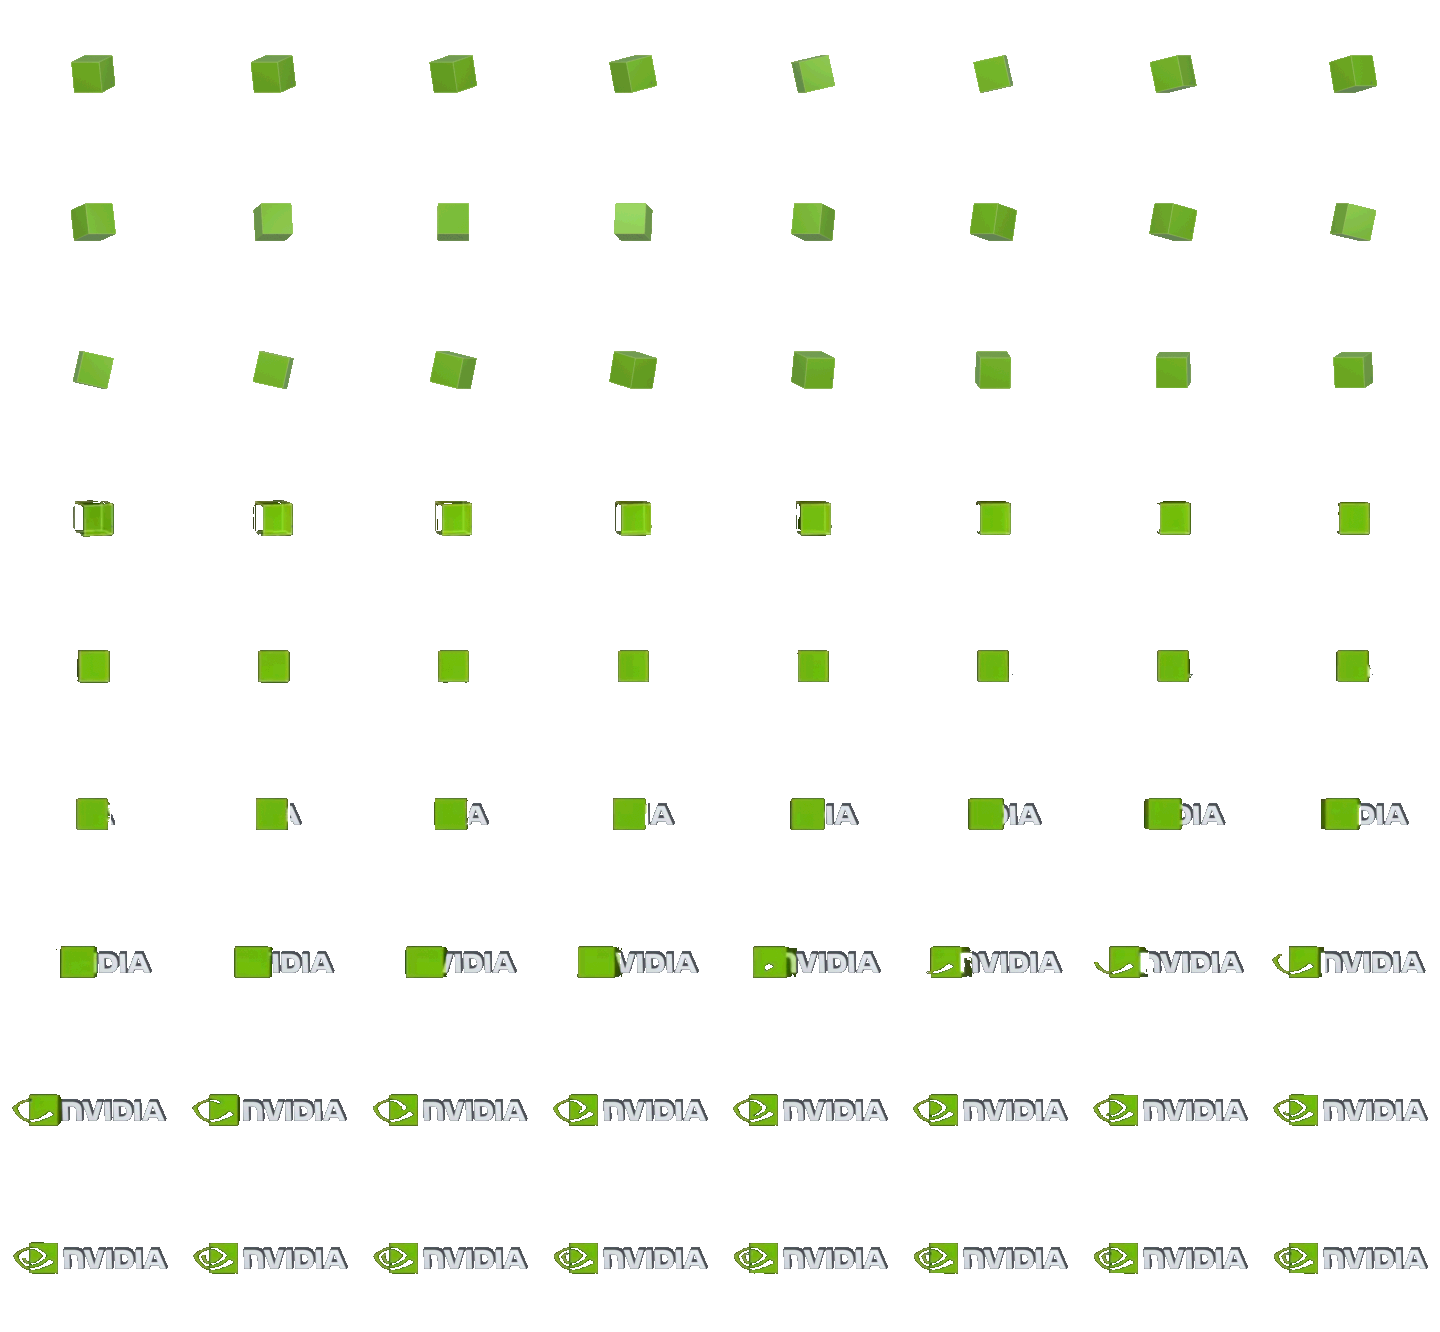
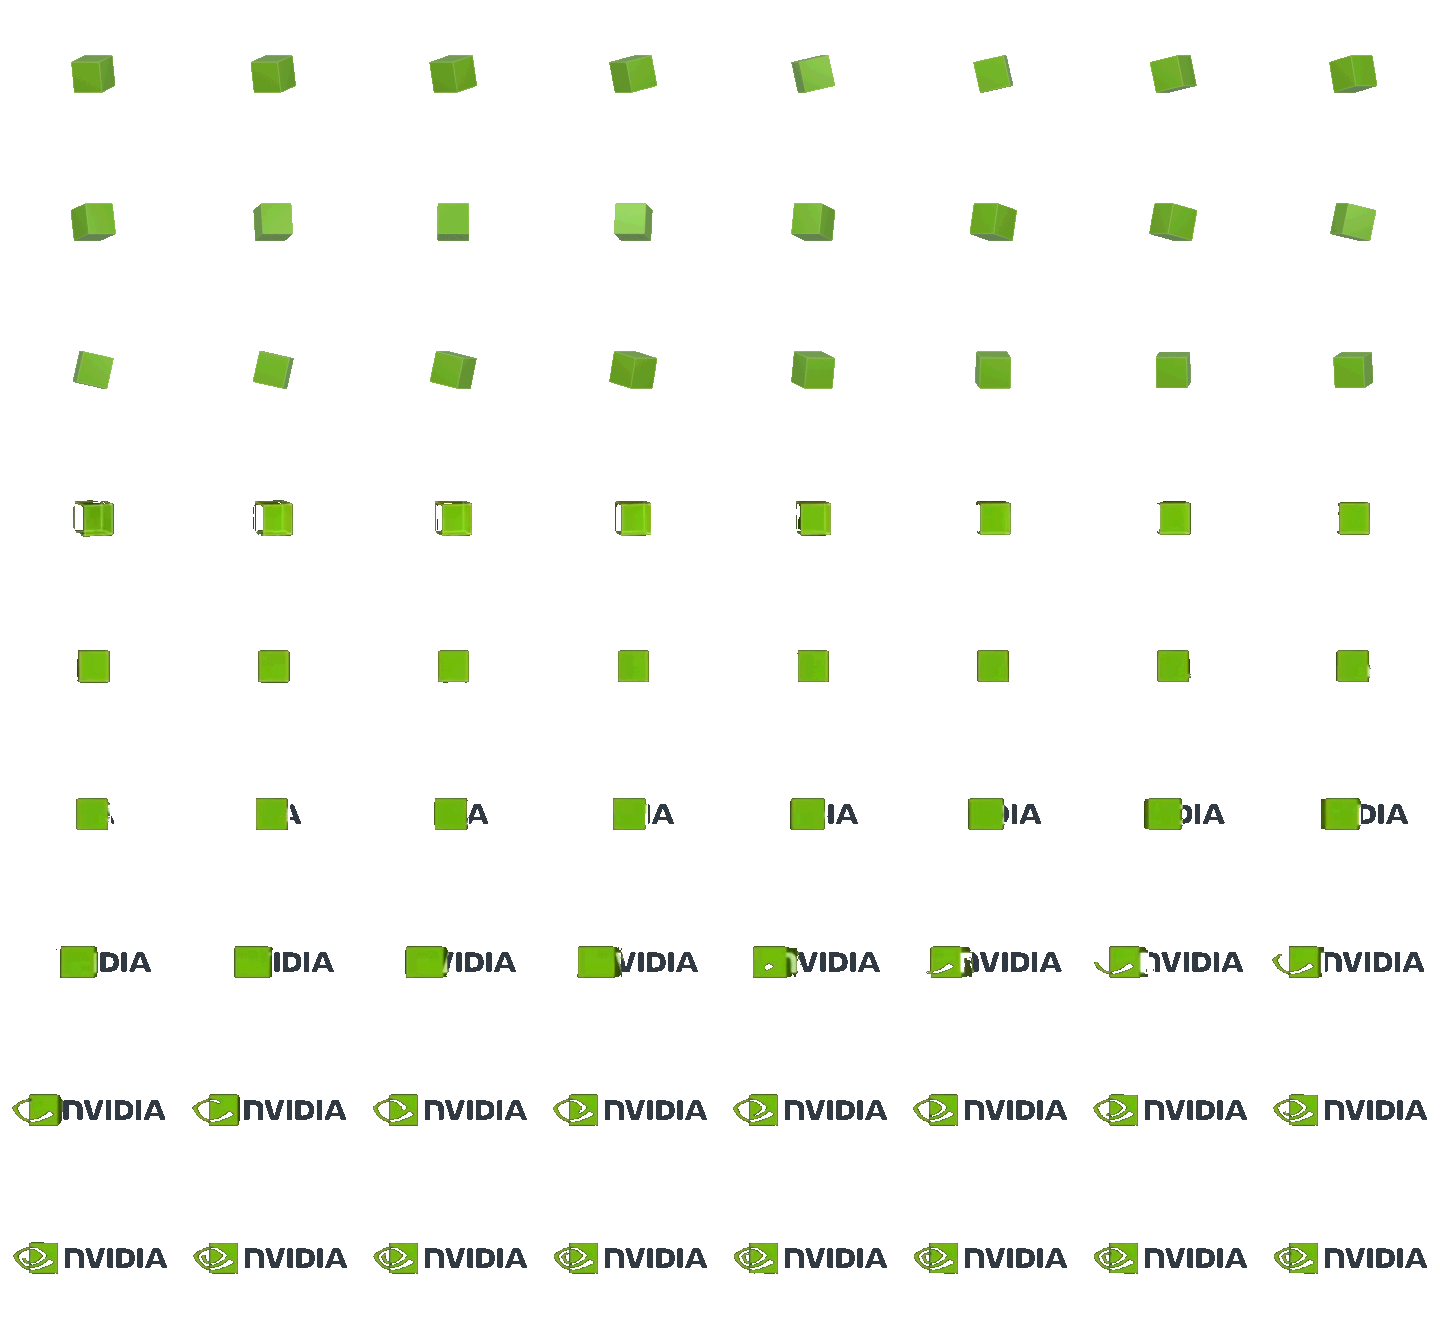
Restore flat NVIDIA wordmark lettering

diff --git a/scripts/blender/build-nvidia-transform.py b/scripts/blender/build-nvidia-transform.py
@@ -78,18 +78,15 @@ def logo(name, paths, bounds, x, width, mat, depth):
     return obj
 
 
-word = logo('Extruded original wordmark', contours['NVIDIA'], (642.64727,1864.07388,960.3779,1189.31953), -0.70, 2.85, dark, 0.14)
-# Bright front caps and dark, deep sides stay legible on the light LCD.
-word.data.bevel_depth = 0.015
-word_front = material('Silver white wordmark faces', tuple(srgb(v) for v in (245,248,250)), 0.12, 0.30)
-bpy.ops.object.select_all(action='DESELECT')
-word.select_set(True)
-bpy.context.view_layer.objects.active = word
-bpy.ops.object.convert(target='MESH')
-word.data.materials.append(word_front)
-for polygon in word.data.polygons:
-    polygon.material_index = 1 if polygon.normal.z > 0.95 else 0
-word.rotation_euler = (0.24,-0.14,0)
+word = logo('Flat original wordmark', contours['NVIDIA'], (642.64727,1864.07388,960.3779,1189.31953), -0.70, 2.85, dark, 0)
+word.data.bevel_depth = 0
+# A uniform graphite face restores the flat lettering on the light LCD.
+word_nodes, word_links = dark.node_tree.nodes, dark.node_tree.links
+word_surface = word_nodes.new('ShaderNodeEmission')
+word_surface.inputs['Color'].default_value = (*[srgb(v) for v in (49,55,63)],1)
+word_output = next(n for n in word_nodes if n.type == 'OUTPUT_MATERIAL')
+word_links.new(word_surface.outputs[0],word_output.inputs['Surface'])
+word_nodes.remove(next(n for n in word_nodes if n.type == 'BSDF_PRINCIPLED'))
 
 
 # The reference square is about one fifth of the completed logo width.
@@ -147,10 +144,10 @@ for f, loc, scale, rot in poses:
     for path in ('location','scale','rotation_euler'):
         cube.keyframe_insert(data_path=path,frame=f)
 
-# Geometry stays extruded while a transparent material reveals the lettering.
+# A transparent material reveals the flat lettering.
 def reveal(mat, values, operation, axis="X"):
     nodes, links = mat.node_tree.nodes, mat.node_tree.links
-    bsdf = next(n for n in nodes if n.type == 'BSDF_PRINCIPLED')
+    bsdf = next(n for n in nodes if n.type in ('BSDF_PRINCIPLED','EMISSION'))
     out = next(n for n in nodes if n.type == 'OUTPUT_MATERIAL')
     pos = nodes.new('ShaderNodeNewGeometry')
     xyz = nodes.new('ShaderNodeSeparateXYZ')
@@ -174,7 +171,6 @@ def reveal(mat, values, operation, axis="X"):
 # The word moves right as the cube moves left. Coordinates follow video frames
 # 15..36, shifted by the 24-frame opening spin; no reverse keys exist.
 reveal(dark, [(1,.60),(40,.60),(43,.53),(46,.40),(49,.20),(52,-.26),(55,-.59),(58,-.86),(61,-.91),(72,-.91)], 'LESS_THAN')
-reveal(word_front, [(1,.60),(40,.60),(43,.53),(46,.40),(49,.20),(52,-.26),(55,-.59),(58,-.86),(61,-.91),(72,-.91)], 'LESS_THAN')
 for frame, right in [(1,.60),(40,.61),(43,1.075),(46,1.433),(49,1.707),(52,1.897),(55,2.044),(58,2.129),(61,2.15),(72,2.15)]:
     word.location.x = right - 2.85
     word.keyframe_insert('location',frame=frame)

diff --git a/docs/nvidia-transform-2026-10-08.md b/docs/nvidia-transform-2026-10-08.md
@@ -5,7 +5,8 @@ User-requested portfolio adaptation on `codex/nvidia-transform`, based on
 absent, so this work uses a separate managed worktree from current `main`.
 Revision 3 implementation is `26148697835b5c6920caf21f03d18b9682fb61f9`, starts from `4409fb4` and supersedes the rejected eye wipe in
 `a524cee`. The user clarified that the cube/eye animation needed correction;
-the 3D wordmark was to stay unchanged.
+the 3D wordmark was to stay unchanged at that point. Revision 4, from
+`605858d`, follows the subsequent request to remove the 3D wordmark.
 
 HOME and the NVIDIA app landing show an opening cube spin, followed by the
 video's cube/eye motion: face-on square, leftward slide, a cut starting near the
@@ -29,8 +30,8 @@ photograph and original text.
   morph rig. UVs use the source colors. Pixel centers align with the render grid.
 - Wordmark: the existing [original NVIDIA SVG](../public/portfolio/nvidia.svg),
   sampled with svgpathtools 1.8.0 into [contours](../scripts/blender/nvidia-logo-contours.json).
-  Revision 2's wordmark geometry, material settings, tilt and reveal keys remain:
-  0.28 units total depth, white front caps, dark sides and bevels.
+  Revision 4 uses a flat graphite face with zero extrusion, bevel and tilt.
+  Wordmark width, position and reveal keys remain unchanged.
 - [Editable Blender source](../assets/blender/nvidia-transform.blend) was authored
   through Blender MCP in Blender 5.2.1 LTS. Earlier scenes remain in the file;
   the active scene is the corrected version. The hardware source is untouched.
@@ -51,7 +52,7 @@ avoid both problems.
 
 The Life and Sound banners were inspected in the browser. The result retains
 crisp low-resolution rendering while following the supplied motion. Opening
-spin, pixel relief geometry, extruded white lettering and pixel sampling are
+spin, pixel relief geometry, flat graphite lettering and pixel sampling are
 intentional portfolio adaptations. Source compression is retained; the output
 is not pixel-identical to the video. There is no firmware manifest key, native
 sound or Azahar comparison for this portfolio asset. Existing native residuals
@@ -121,3 +122,22 @@ Evidence root:
 `animation-sheet.png` and non-looping `nvidia-once.gif` preview the delivered
 frames. Render/build/test/shader logs are alongside them. Revision 2 and the
 parent folder preserve earlier captures and rejected iterations.
+
+
+## Revision 4 — flat wordmark
+
+The user preferred the earlier flat lettering. Removed the extrusion, bright
+front caps, dark side faces, bevel and tilt; rendered the original SVG wordmark
+as a uniform graphite face. The cube/eye mesh poses, opening spin, reveal keys,
+29.97 fps timing, transparency and one-shot runtime are preserved.
+
+Evidence: `revision-4/` under the private evidence root's parent, including
+`flat-wordmark.png`, `nvidia-once.gif`, `green-preservation.json`, Blender frames,
+production browser screenshot and build/test/shader logs. Comparing the green
+silhouettes of all 72 frames against revision 3 finds 154 differing pixels total;
+removing text depth changes small overlap/shadow edges, not the motion geometry.
+No native scenario or fidelity status changed.
+
+Revision 4 verification: Blender confirms zero extrusion, bevel and rotation;
+muted production HOME banner inspected. Typecheck, build and shader pass;
+full suite: 2,167 pass, one known missing Camera fixture failure, 96 skip, one TODO.

diff --git a/STATUS.md b/STATUS.md
@@ -35,7 +35,12 @@ Revision 3 implemented: video-derived extruded pixel poses replace the eye wipe;
 source timing is 30000/1001 fps. Wordmark is unchanged. Muted preview at port
 3048 serves revision 3. Full video silhouette comparison and one-shot browser
 checks pass with documented raster-edge residuals; exact 1:1 remains unclaimed.
-Next for this branch: user visual review. Native queue below remains unrelated.
+Revision 4 starts from checked HEAD `605858d2cce583fe862f43f61a943527384ceacd`.
+User asks for flat lettering again; remove wordmark depth, bevel and tilt.
+Revision 4 rendered and served on the isolated muted port 3048 preview.
+Revision 4 browser-inspected: flat graphite text on the NVIDIA HOME banner.
+Typecheck, build and shader pass; full suite retains the known missing Camera
+fixture failure (2,167 pass, one fail). Next: user visual review. Native queue remains unrelated.
 The historical serving/seats/evidence below are preserved, not verified live.
 
 

diff --git a/public/portfolio/README.md b/public/portfolio/README.md
@@ -16,8 +16,7 @@ The Renu page has no complete project write-up. Alora and Microsoft also have li
 
 `nvidia-transform/atlas.png` is a transparent Blender render. The cube/eye uses
 46 extruded pixel poses sampled from the user's video, including its outer stroke
-and inward curl. The wordmark uses the original SVG above with white front caps
-and dark extruded sides. An added cube spin precedes the source motion; playback
+and inward curl. The wordmark uses the original SVG above as flat graphite lettering. An added cube spin precedes the source motion; playback
 runs once at 29.97 fps and holds the video's endpoint. This is a portfolio
 adaptation, not a Nintendo firmware resource.
 See `nvidia-transform/provenance.json` for source/output hashes and

diff --git a/docs/feature-map/media-social-and-portfolio.md b/docs/feature-map/media-social-and-portfolio.md
@@ -280,3 +280,11 @@ actual renderer playback checks pass. Typecheck/build/shader pass; full tests
 have the known missing private Camera HNI fixture failure (2,167 pass, one fail).
 No native matrix or native acceptance status changes. See
 [authoring and evidence](../nvidia-transform-2026-10-08.md).
+
+
+### NVIDIA revision 4 — flat wordmark
+
+User requested the flat lettering again. Blender source and transparent atlas
+now use a flat graphite wordmark without extrusion, bevel or tilt. Cube/eye
+geometry, opening spin, timing and one-shot hold remain. Portfolio adaptation;
+no native acceptance changes. See [evidence](../nvidia-transform-2026-10-08.md).

diff --git a/docs/progress-2026-09-24.md b/docs/progress-2026-09-24.md
@@ -6777,3 +6777,11 @@ actual renderer playback checks pass. Typecheck/build/shader pass; full tests
 have the known missing private Camera HNI fixture failure (2,167 pass, one fail).
 No native matrix or native acceptance status changes. See
 [authoring and evidence](nvidia-transform-2026-10-08.md).
+
+
+### NVIDIA revision 4 — flat wordmark
+
+User requested the flat lettering again. Blender source and transparent atlas
+now use a flat graphite wordmark without extrusion, bevel or tilt. Cube/eye
+geometry, opening spin, timing and one-shot hold remain. Portfolio adaptation;
+no native acceptance changes. See [evidence](nvidia-transform-2026-10-08.md).
